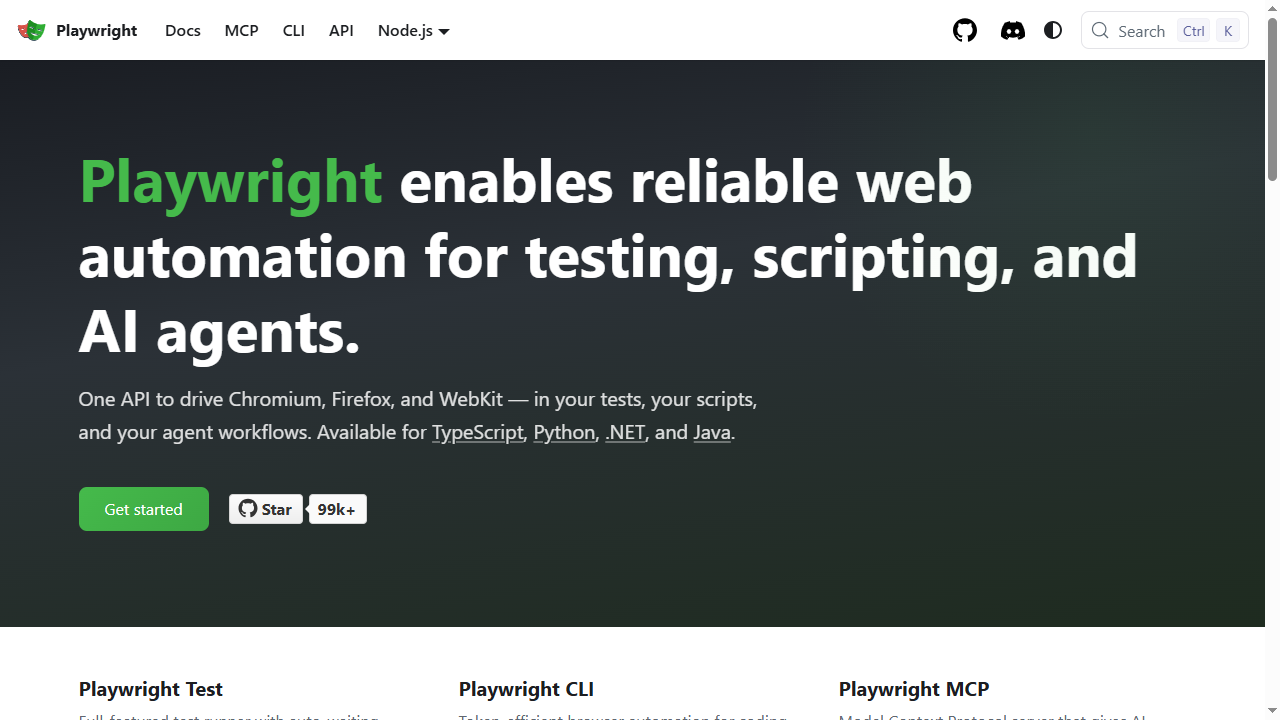
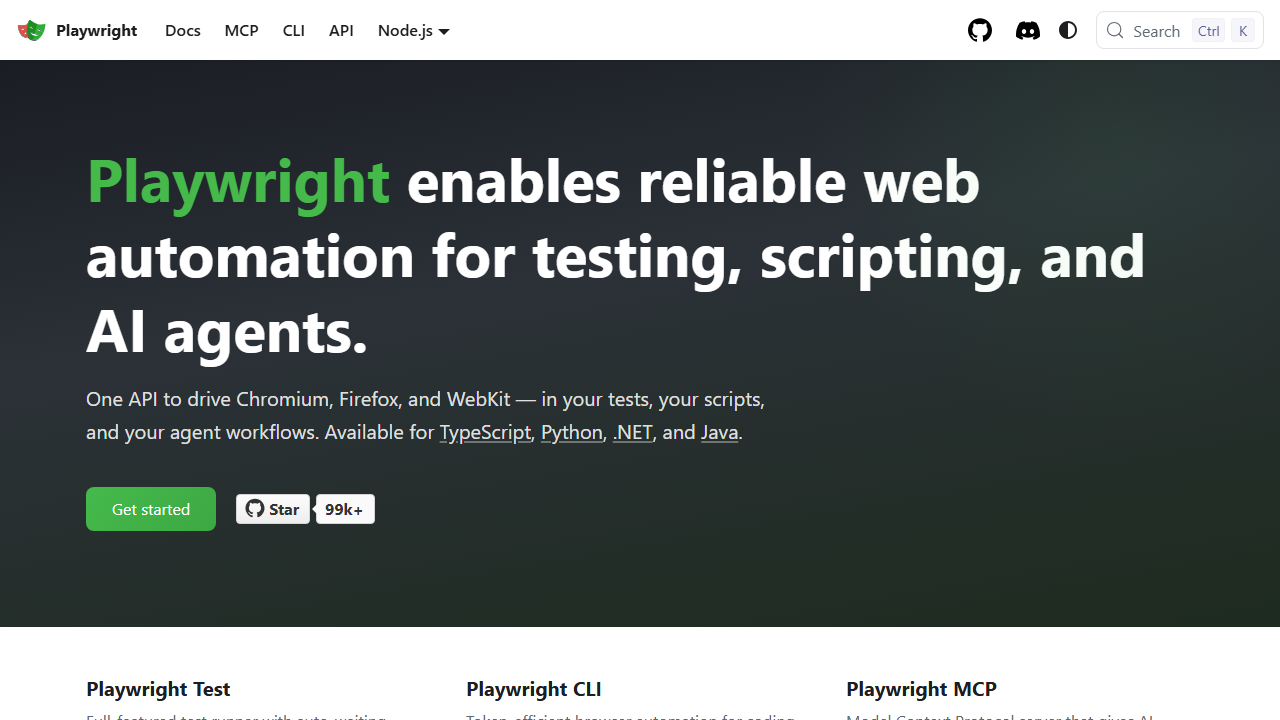
Removed test.only from test cases

diff --git a/tests/Day11_Scrolling_DyanamicPage.spec.ts b/tests/Day11_Scrolling_DyanamicPage.spec.ts
@@ -2,7 +2,7 @@ import{test,expect} from '@playwright/test'
 let initialHeight=0
 test("Scroll the page", async ({page})=>{
 await page.goto("https://www.booksbykilo.in/children-books")
-
+/*
 while(true){
    await page.evaluate(()=> window.scrollTo(0,document.body.scrollHeight))// scroll bottom of the page
 await page.waitForTimeout(5000)
@@ -19,5 +19,6 @@ return document.body.scrollHeight
    console.log("End")
 
 }
+   */
 
 })

diff --git a/tests/Day6_DyanamicWebTable.spec.ts b/tests/Day6_DyanamicWebTable.spec.ts
@@ -20,7 +20,7 @@ test("Test case1:DyanmicWebTable Handaling",async ({page})=>{
      console.log(cpuload)
 })
 
-test.only("Test case2:DyanmicWebTable Handaling",async ({page})=>{
+test("Test case2:DyanmicWebTable Handaling",async ({page})=>{
 
     await page.goto("https://sdetqa.vercel.app/autoplay")
      const tableRow= await page.locator("#taskTable tbody tr").all()

diff --git a/tests/Day8_DailogHandaling.spec.ts b/tests/Day8_DailogHandaling.spec.ts
@@ -34,7 +34,7 @@ page.on("dialog",async dailog =>{
 await page.getByRole("button", {name: 'Prompt'}).click()
 
 })
-test.only("Popup handaling", async ({page})=>{
+test("Popup handaling", async ({page})=>{
 await page.goto("https://sdetqa.vercel.app/autoplay")
 
 page.on("dialog",async dailog =>{

diff --git a/tests/Day10_FileUploadAndFileDownload.spec.ts b/tests/Day10_FileUploadAndFileDownload.spec.ts
@@ -14,7 +14,7 @@ await page.waitForTimeout(5000)
 await expect (singleFileStatus).toHaveText(/Single file selected/)
 })
 
-test.only("FileDownload", async ({ page }) => {
+test("FileDownload", async ({ page }) => {
 
     await page.goto("https://sdetqa.vercel.app/autoplay");
 

diff --git a/tests/Day9_HandalingNewtab.spec.ts b/tests/Day9_HandalingNewtab.spec.ts
@@ -30,7 +30,7 @@ test("Handling new tab", async ({ page }) => {
 
 });
 
-test.only("handaling new tab case 2",  async ({browser})=>{
+test("handaling new tab case 2",  async ({browser})=>{
     const context= await browser.newContext()
     const page= await context.newPage()
 

diff --git a/tests/Day3_dropDown.spec.ts b/tests/Day3_dropDown.spec.ts
@@ -37,7 +37,7 @@ test("validate the url", async ({ page }) => {
 })
 
 
-test.only("multiSelectOption", async ({ page }) => {
+test("multiSelectOption", async ({ page }) => {
 
     const multiSelectDropdown = page.locator('#colors');
 
